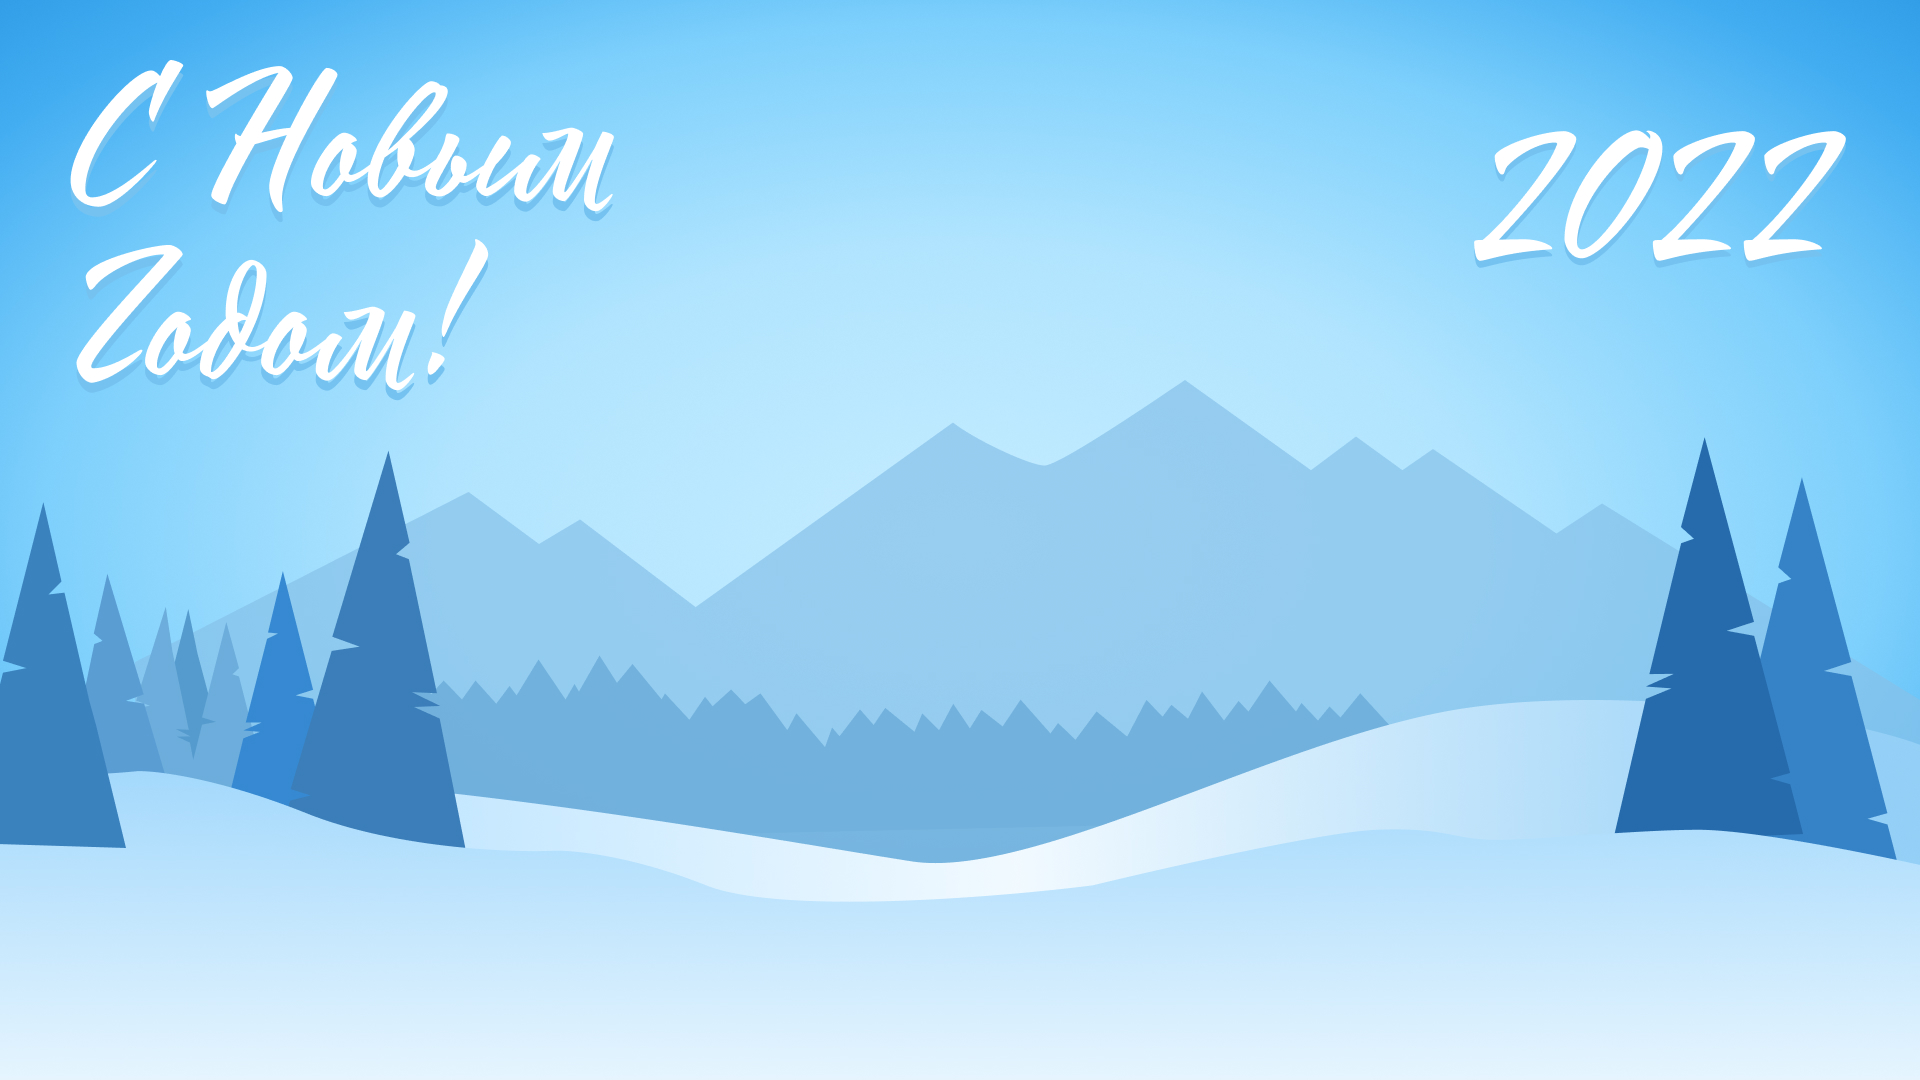
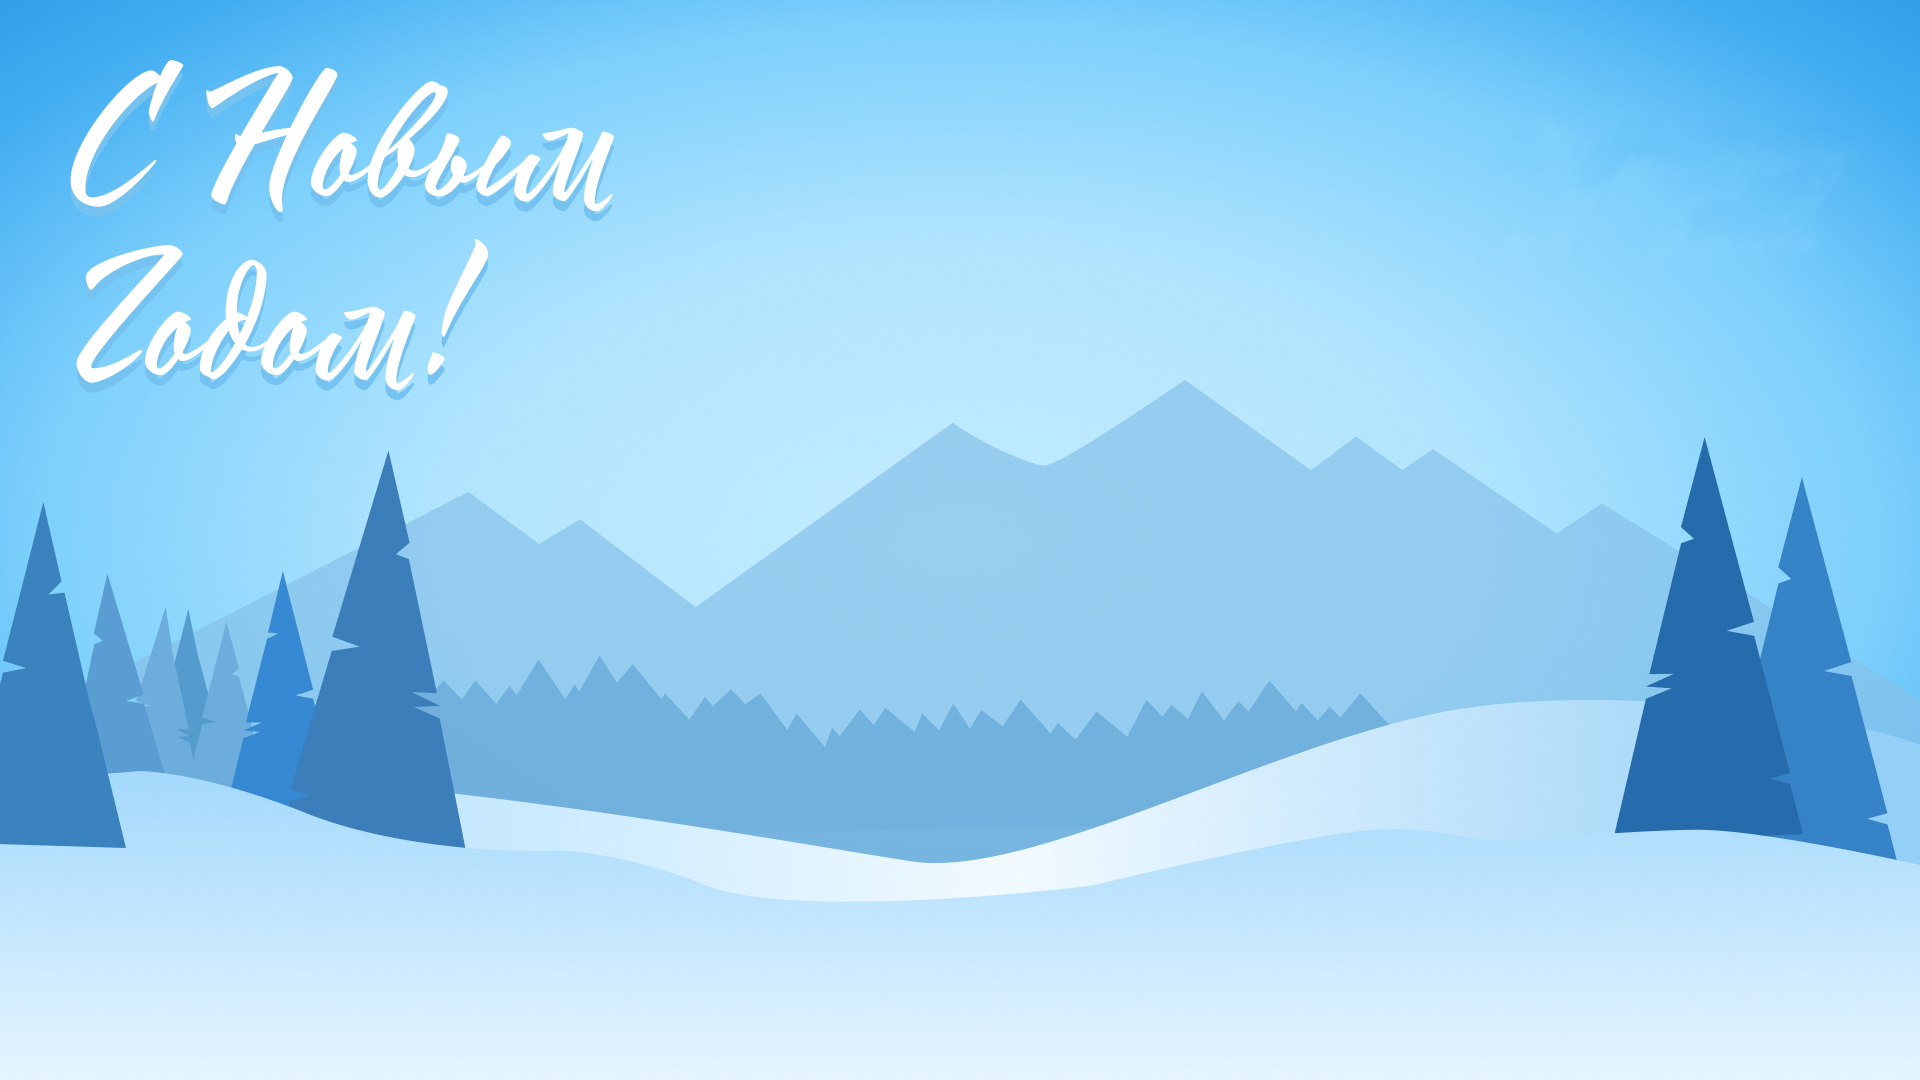
позиционирование, тултип, контейнер года

Changed region(s): [[0.75, 0.1222, 0.9688, 0.2444]]

diff --git a/front/src/components/NewToy/index.tsx b/front/src/components/NewToy/index.tsx
@@ -13,10 +13,9 @@ import './style.css';
 let pageX=0;
 let pageY=0;
 
-const NewToy = ({target}:any) => {
-        const toyRef = useRef<any>(null);
-        const clientHeight = document.documentElement.clientHeight;
-        const clientWidth = document.documentElement.clientWidth;
+const NewToy = ({clientSize,target}:any) => {
+    const toyRef = useRef<any>(null);
+      const {clientHeight,clientWidth } = clientSize
         const dragRef = useRef<any>({active:false,shift:{x:0,y:0}});
         let drag = dragRef.current;
         const [state, setState] = useState({edit: false, data: {
@@ -38,8 +37,8 @@ const NewToy = ({target}:any) => {
                 body: _toy
             });
 
-            const data  = await resp.json();
-            console.log('data',data);
+            const data = await resp.json();
+            
             setState({
                 edit: state.edit,
                 data
@@ -68,15 +67,13 @@ const NewToy = ({target}:any) => {
         ball.style.display = 'none';
         let elemBelow = document.elementFromPoint(event.clientX, event.clientY);
         ball.style.display = 'flex';
-        // clientWidth = 100
-        // event.clientX = positionX
-        // positionX = event.clientX*100/clientWidth
-        if (elemBelow===target.current) {
+        
+        if (elemBelow===target.current && clientWidth && clientHeight) {
             const toy = {
                 _id:state.data._id,
                 message: state.data.message,
-                positionX: event.clientX/clientWidth,
-                positionY: event.clientY/clientHeight,
+                positionX: +toyRef.current.style.left.split('px')[0]/clientWidth,
+                positionY: +toyRef.current.style.top.split('px')[0]/clientHeight,
             }
             createOrUpdateToy(toy);
         } else {

diff --git a/front/src/components/App.tsx b/front/src/components/App.tsx
@@ -11,11 +11,14 @@ import './App.css';
 
 function App() {
     const [toys, updateToys] = useState([...new Array(1)]);
+    console.log(" process.env.CURRENT_YEAR", process.env.CURRENT_YEAR);
+    
     const [ourToys, updateOurToys] = useState([]);
     const [size,setSize]=useState({
-        clientHeight: document.documentElement.clientHeight,
-        clientWidth: document.documentElement.clientWidth
+        clientHeight:  document.getElementById("app")?.clientHeight||0,
+        clientWidth: document.getElementById("app")?.clientWidth||0
     })
+    
     const tree = useRef(null);
 
     const getToys = () =>{
@@ -34,8 +37,8 @@ function App() {
 
     const changeSize = ()=>{
         setSize({
-            clientHeight: document.documentElement.clientHeight,
-            clientWidth: document.documentElement.clientWidth
+            clientHeight:  document.getElementById("app")?.clientHeight||0,
+            clientWidth: document.getElementById("app")?.clientWidth||0
         })
     }
 
@@ -51,11 +54,12 @@ function App() {
         <div className="christmas-tree-app scene"
            style={{backgroundImage:`url(${Background2})`}}
         >
+            <h1 className='christmas-tree-app__current-year'>{ process.env.CURRENT_YEAR}</h1>
             <Snow/>
-            <NewToy target={tree}/>
+            <NewToy target={tree} clientSize={size} />
+            {ourToys?.map((toy, index) => <Toy clientSize={size} toy={toy} key={"toy" + index}/>)}
             <main className="christmas-tree-app__tree-container ">
                 <img src={treeImg} ref={tree} title="Елка" className="droppable"/>
-                {ourToys?.map((toy, index) => <Toy key={"toy" + index} {...toy}/>)}
             </main>
             <img className="christmas-tree-app__footer-logo" src={logo} alt=""/>
         </div>

diff --git a/front/src/components/Toy/Toy.tsx b/front/src/components/Toy/Toy.tsx
@@ -1,5 +1,5 @@
 import React, {MutableRefObject, useEffect, useRef, useState} from 'react';
-import { Tooltip } from 'react-tooltip'
+import Tippy from '@tippyjs/react';
 import T1 from '@assets/toy1.png';
 import T2 from '@assets/toy2.png';
 import T3 from '@assets/toy3.png';
@@ -17,25 +17,24 @@ export const config = {
     3: T3
 }
 
-const Toy = ({positionX, positionY, message}: any) => {
-    if (!positionX || !positionY || !message) return null;
-    const clientHeight = document.documentElement.clientHeight;
-    const clientWidth = document.documentElement.clientWidth;
+const Toy = ({ toy,clientSize}: any) => {
+    const { positionX, positionY, message } = toy
+    const {clientHeight,clientWidth } = clientSize
+    if (!positionX || !positionY || !message || !clientHeight || !clientWidth) return null;
+    
     const style = {
         left: clientWidth * positionX,
         top: clientHeight * positionY,
     };
 
-    return <>
+    return <Tippy content={message}>
         <div
              style={style}
-             data-tooltip-id="my-tooltip"
-             data-tooltip-content={message}
-             className="toy toy--read-only">
+            className="toy toy--read-only">
             <img src={config[getRandomInt(3)]}/>
         </div>
-        <Tooltip multiline id="my-tooltip" />
-    </>
+    </Tippy>
+    
 }
 
 export default Toy

diff --git a/front/webpack.config.js b/front/webpack.config.js
@@ -2,7 +2,8 @@
 const path = require('path');
 const webpack = require('webpack')
 const {
-    API_SERVICE_URL
+    API_SERVICE_URL,
+    CURRENT_YEAR
 } = require('./app.config')
 const HtmlWebpackPlugin = require('html-webpack-plugin')
 const {CleanWebpackPlugin} = require('clean-webpack-plugin')
@@ -47,7 +48,8 @@ module.exports = (env, argv) => {
             new CleanWebpackPlugin(),
             new webpack.DefinePlugin({
                 "process.env": {
-                    API_SERVICE_URL: JSON.stringify(API_SERVICE_URL)
+                    API_SERVICE_URL: JSON.stringify(API_SERVICE_URL),
+                    CURRENT_YEAR:JSON.stringify(CURRENT_YEAR)
                 }
             }),
             new MiniCssExtractPlugin({

diff --git a/front/src/components/App.css b/front/src/components/App.css
@@ -22,6 +22,15 @@
   background-repeat: no-repeat;
 }
 
+.christmas-tree-app__current-year{
+  font-size: 140px;
+  font-weight: bold;
+  color: white;
+  position: fixed;
+  right: 42px;
+  top: 83px;
+}
+
 
 .christmas-tree-app__header {
   position: fixed;

diff --git a/front/src/index.tsx b/front/src/index.tsx
@@ -1,6 +1,7 @@
 import React from 'react';
 import {createRoot} from "react-dom/client";
 import App from '@components/App';
+import 'tippy.js/dist/tippy.css'; 
 import './index.css';
 
 const elem = document.getElementById('app')

diff --git a/front/app.config.js b/front/app.config.js
@@ -1,3 +1,4 @@
 module.exports = {
     API_SERVICE_URL: process.env.API_SERVICE_URL || 'http://localhost:3001',
+    CURRENT_YEAR: process.env.CURRENT_YEAR || "1989"
 }

diff --git a/front/src/globals.d.ts b/front/src/globals.d.ts
@@ -1,0 +1,5 @@
+declare module '*.png';
+
+declare module '*.svg';
+
+declare module '*.jpg';
